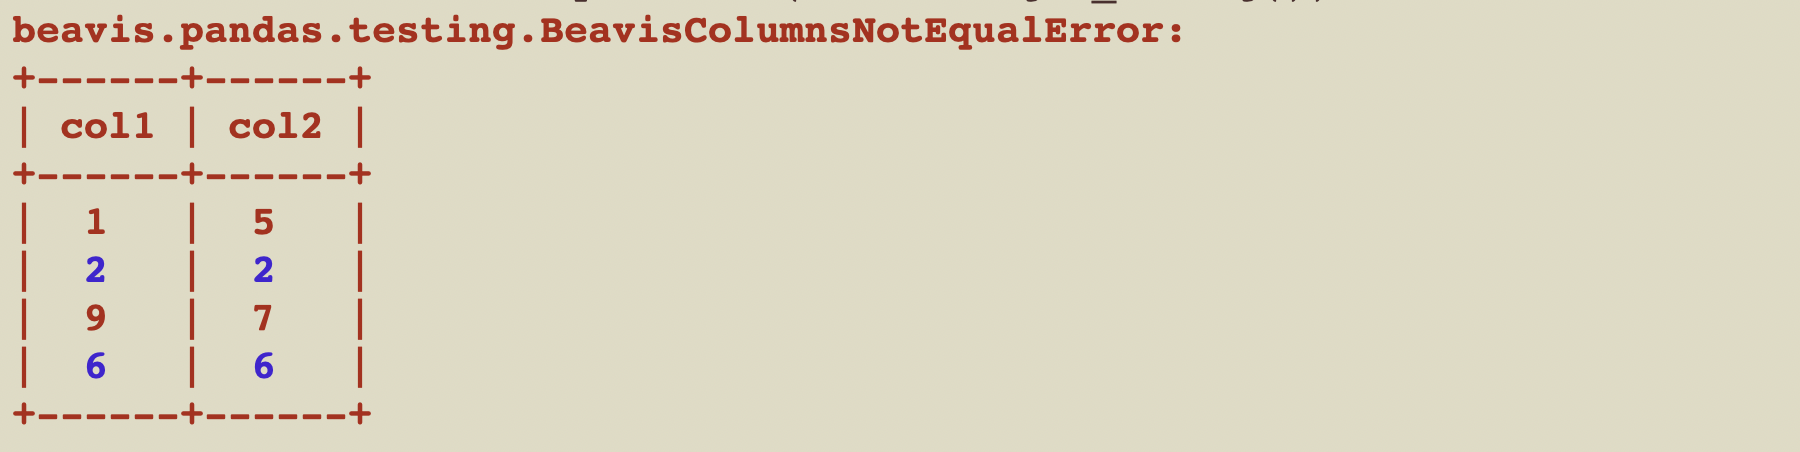
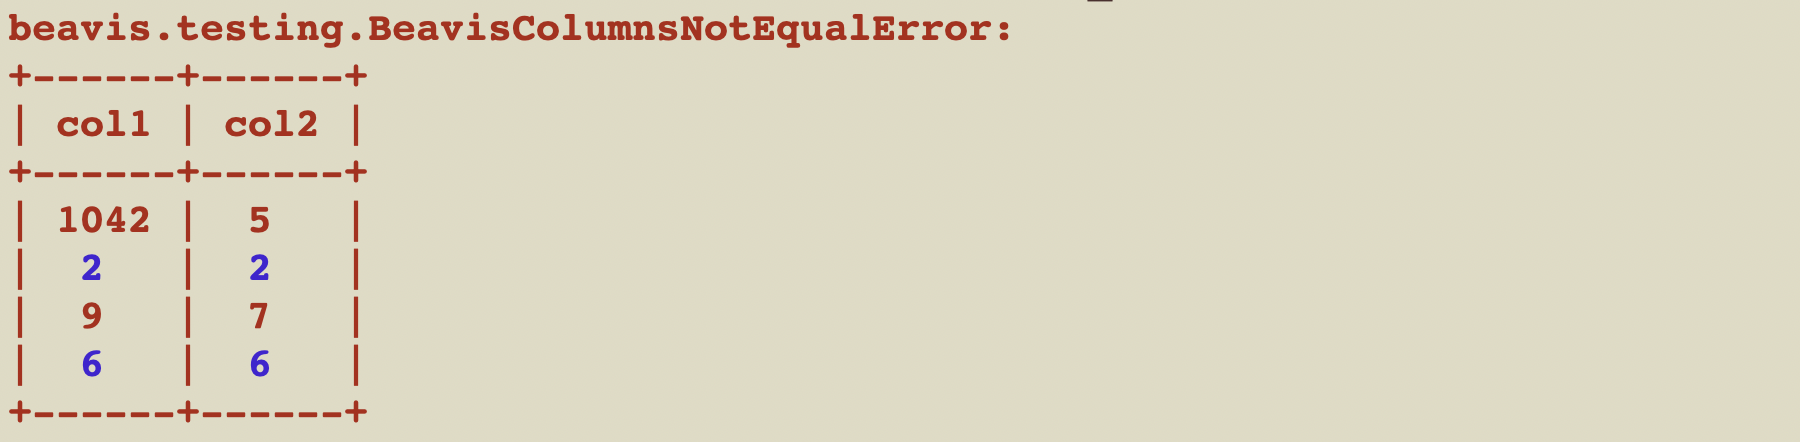
Rearrange the README

diff --git a/tests/test_testing.py b/tests/test_testing.py
@@ -40,9 +40,10 @@ def describe_assert_pd_equality():
 
 def describe_assert_pd_column_equality():
     def it_throws_when_df_columns_are_not_equal():
-        df = pd.DataFrame({"col1": [1, 2, 9, 6], "col2": [5, 2, 7, 6]})
+        df = pd.DataFrame({"col1": [1042, 2, 9, 6], "col2": [5, 2, 7, 6]})
         with pytest.raises(beavis.BeavisColumnsNotEqualError) as e_info:
             beavis.assert_pd_column_equality(df, "col1", "col2")
+
 
 def describe_assert_dd_equality():
     # Vanilla equality
@@ -60,3 +61,11 @@ def describe_assert_dd_equality():
         df2 = pd.DataFrame({"col1": [1, 2], "col2": [3, 4]})
         ddf2 = dd.from_pandas(df2, npartitions=2)
         beavis.assert_dd_equality(ddf1, ddf2)
+
+
+def describe_assert_dd_column_equality():
+    def it_throws_when_df_columns_are_not_equal():
+        df = pd.DataFrame({"col1": [1042, 2, 9, 6], "col2": [5, 2, 7, 6]})
+        ddf = dd.from_pandas(df, npartitions=2)
+        with pytest.raises(beavis.BeavisColumnsNotEqualError) as e_info:
+            beavis.assert_dd_column_equality(ddf, "col1", "col2")

diff --git a/tests/test_pandas_defaults.py b/tests/test_pandas_defaults.py
@@ -25,6 +25,6 @@ def describe_assert_frame_equal():
 
 def describe_assert_series_equal():
     def it_throws_when_series_content_is_not_equal():
-        df = pd.DataFrame({"col1": [1, 2, 9, 6], "col2": [5, 2, 7, 6]})
+        df = pd.DataFrame({"col1": [1042, 2, 9, 6], "col2": [5, 2, 7, 6]})
         with pytest.raises(AssertionError) as e_info:
             pd.testing.assert_series_equal(df["col1"], df["col2"])

diff --git a/beavis/testing.py b/beavis/testing.py
@@ -92,3 +92,7 @@ def assert_pd_column_equality(df, col_name1, col_name2):
 
 def assert_dd_equality(df1, df2, check_index=True, check_dtype=True):
     assert_pd_equality(df1.compute(), df2.compute())
+
+
+def assert_dd_column_equality(df, col_name1, col_name2):
+    assert_pd_column_equality(df.compute(), col_name1, col_name2)

diff --git a/README.md b/README.md
@@ -1,14 +1,60 @@
 # beavis
 
-Pandas and Dask test helper methods.
+Pandas and Dask test helper methods with beautiful error messages.
 
 ![cornholio](https://github.com/MrPowers/beavis/blob/main/images/cornholio.jpg)
 
 ## test helpers
 
+These test helper methods are meant to be used in test suites.  They provide descriptive error messages to allow for a seamless development workflow.
+
+The test helpers are inspired by [chispa](https://github.com/MrPowers/chispa) and [spark-fast-tests](https://github.com/MrPowers/spark-fast-tests), popular test helper libraries for the Spark ecosystem.
+
+There are built-in Pandas testing methods that can also be used, but they don't provide error messages that are as easy to parse.  The following sections compare the built-in Pandas output and what's output by Beavis, so you can choose for yourself.
+
+### Column comparisons
+
+The built-in `assert_series_equal` method does not make it easy to decipher the rows that are equal and the rows that are different, so quickly fixing your tests and maintaining flow is hard.
+
+Here's the built-in error message when comparing series that are not equal.
+
+```python
+df = pd.DataFrame({"col1": [1042, 2, 9, 6], "col2": [5, 2, 7, 6]})
+pd.testing.assert_series_equal(df["col1"], df["col2"])
+```
+
+```
+>   ???
+E   AssertionError: Series are different
+E
+E   Series values are different (50.0 %)
+E   [index]: [0, 1, 2, 3]
+E   [left]:  [1042, 2, 9, 6]
+E   [right]: [5, 2, 7, 6]
+```
+
+Here's the beavis error message that's provides aligned output with different colors to highlight the rows that don't match.
+
+```python
+import beavis
+
+beavis.assert_pd_column_equality(df, "col1", "col2")
+```
+
+![BeavisColumnsNotEqualError](https://github.com/MrPowers/beavis/blob/main/images/beavis_columns_not_equal_error.png)
+
+You can also compare columns in a Dask DataFrame.
+
+```python
+ddf = dd.from_pandas(df, npartitions=2)
+beavis.assert_dd_column_equality(ddf, "col1", "col2")
+```
+
+The `assert_dd_column_equality` error message is similarly descriptive.
+
 ### DataFrame comparisons
 
-The built-in `pandas.testing.assert_frame_equal` method doesn't output an error message that's easy to parse, see this example.
+The built-in `pandas.testing.assert_frame_equal` method doesn't output an error message that's easy to understand, see this example.
 
 ```python
 df1 = pd.DataFrame({'col1': [1, 2], 'col2': [3, 4]})
@@ -28,8 +74,6 @@ E   [right]: [5, 2]
 beavis provides a nicer error message.
 
 ```python
-import beavis
-
 beavis.assert_pd_equality(df1, df2)
 ```
 
@@ -51,31 +95,3 @@ beavis.assert_dd_equality(ddf1, ddf2)
 These DataFrames aren't equal, so we'll get a good error message that's easy to debug.
 
 ![Dask DataFrames not equal](https://github.com/MrPowers/beavis/blob/main/images/dd_not_equal.png)
-
-### Column comparisons
-
-Here's the built-in error message when comparing series that are not equal.
-
-```python
-df = pd.DataFrame({'col1': [1, 2, 9, 6], 'col2': [5, 2, 7, 6]})
-pd.testing.assert_series_equal(df["col1"], df["col2"])
-```
-
-```
->   ???
-E   AssertionError: Series are different
-E
-E   Series values are different (50.0 %)
-E   [index]: [0, 1, 2, 3]
-E   [left]:  [1, 2, 9, 6]
-E   [right]: [5, 2, 7, 6]
-```
-
-Here's the beavis error message that's easier to read.
-
-```python
-beavis.assert_pd_column_equality(df, "col1", "col2")
-```
-
-![BeavisColumnsNotEqualError](https://github.com/MrPowers/beavis/blob/main/images/beavis_columns_not_equal_error.png)
-
